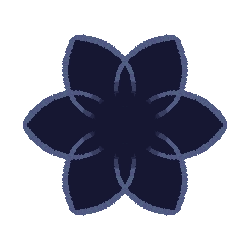
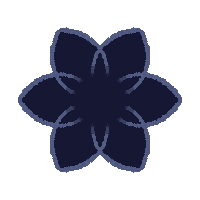
Resize flower, items plcaement main

diff --git a/RMITshowcase2025/style.css b/RMITshowcase2025/style.css
@@ -53,7 +53,6 @@ footer {
 .fishAnimReverse {
   animation: curvepath 12s ease-in 30s;
 }
-
 @keyframes curvepath {
   0% {
     transform: rotate(0deg);
@@ -72,7 +71,7 @@ footer {
 .box {
   grid-row: span 2;
   position: relative;
-  overflow: hidden;
+  /* overflow: hidden; */
 }
 .box-head {
   position: relative;
@@ -84,12 +83,30 @@ footer {
   background-image: url(boxhead.webp);
   background-size: 100% 100%;
   background-repeat: no-repeat;
-  display: grid;
-  place-items: center;
+}
+.head-bg h2 {
+  padding: 40% 2vw;
+  text-align: center;
+  transform: rotate(5deg);
+}
+#head-sound h2,
+#head-video h2 {
+  transform: rotate(-8deg);
 }
 #head-uxui .head-bg,
 #head-3d .head-bg {
   top: -8vh;
+  transform: rotate(8deg);
+}
+
+/* SPACER */
+.space {
+  position: relative;
+}
+.flower {
+  position: absolute;
+  top: 0;
+  left: 0;
 }
 
 /* ITEM */
@@ -97,6 +114,7 @@ footer {
   position: absolute;
   top: 10%;
   cursor: pointer;
+  z-index: 1;
 }
 .img-container {
   width: 100%;
@@ -170,7 +188,7 @@ footer {
 #box3,
 #box11,
 .box-head {
-  animation: bobbing 7s infinite alternate ease-in-out -5s;
+  animation: bobbing 3s infinite alternate ease-in-out -5s;
 }
 @keyframes bobbing {
   0% {
@@ -202,6 +220,23 @@ footer {
   #head-video .head-bg {
     top: -10vh;
   }
+  #box3,
+  #box7,
+  #box12,
+  #box20 {
+    transform: translateY(7vh);
+  }
+  #box2,
+  #box16 {
+    transform: translateY(-7vh);
+  }
+  #flower1 {
+    left: -8vw;
+  }
+  #flower3 {
+    top: -10vh;
+    left: 10vw;
+  }
 }
 /* Mobile 787px or smaller */
 @media only screen and (max-width: 787px) {
@@ -211,14 +246,25 @@ footer {
     aspect-ratio: 2/20;
     margin: 6vw 5vw 0vw;
   }
-}
-#box3,
-#box7,
-#box12,
-#box20 {
-  transform: translateY(7vh);
-}
-#box2,
-#box16 {
-  transform: translateY(-7vh);
+  #box3,
+  #box7,
+  #box12,
+  #box20 {
+    transform: translateY(3vh);
+  }
+  #box2,
+  #box16 {
+    transform: translateY(-3vh);
+  }
+  #space2 {
+    grid-row: 17;
+    grid-column: 1;
+  }
+  #space3 {
+    grid-row: 25;
+    grid-column: 1;
+  }
+  #flower2 {
+    top: -10vh;
+  }
 }

diff --git a/RMITshowcase2025/root.css b/RMITshowcase2025/root.css
@@ -100,8 +100,8 @@ p {
   h1 {
     font-size: 3rem;
   }
-  h3 {
-    font-size: 2rem;
+  p {
+    font-size: 0.8rem;
   }
 }
 
@@ -130,6 +130,7 @@ p {
 .flower {
   position: relative;
   width: 100%;
+  max-width: 200px;
   aspect-ratio: 1;
   cursor: pointer;
 }
@@ -138,7 +139,7 @@ p {
   width: 100%;
   height: 100%;
   background-repeat: no-repeat;
-  background-size: cover;
+  background-size: contain;
 }
 
 .layer1 {
